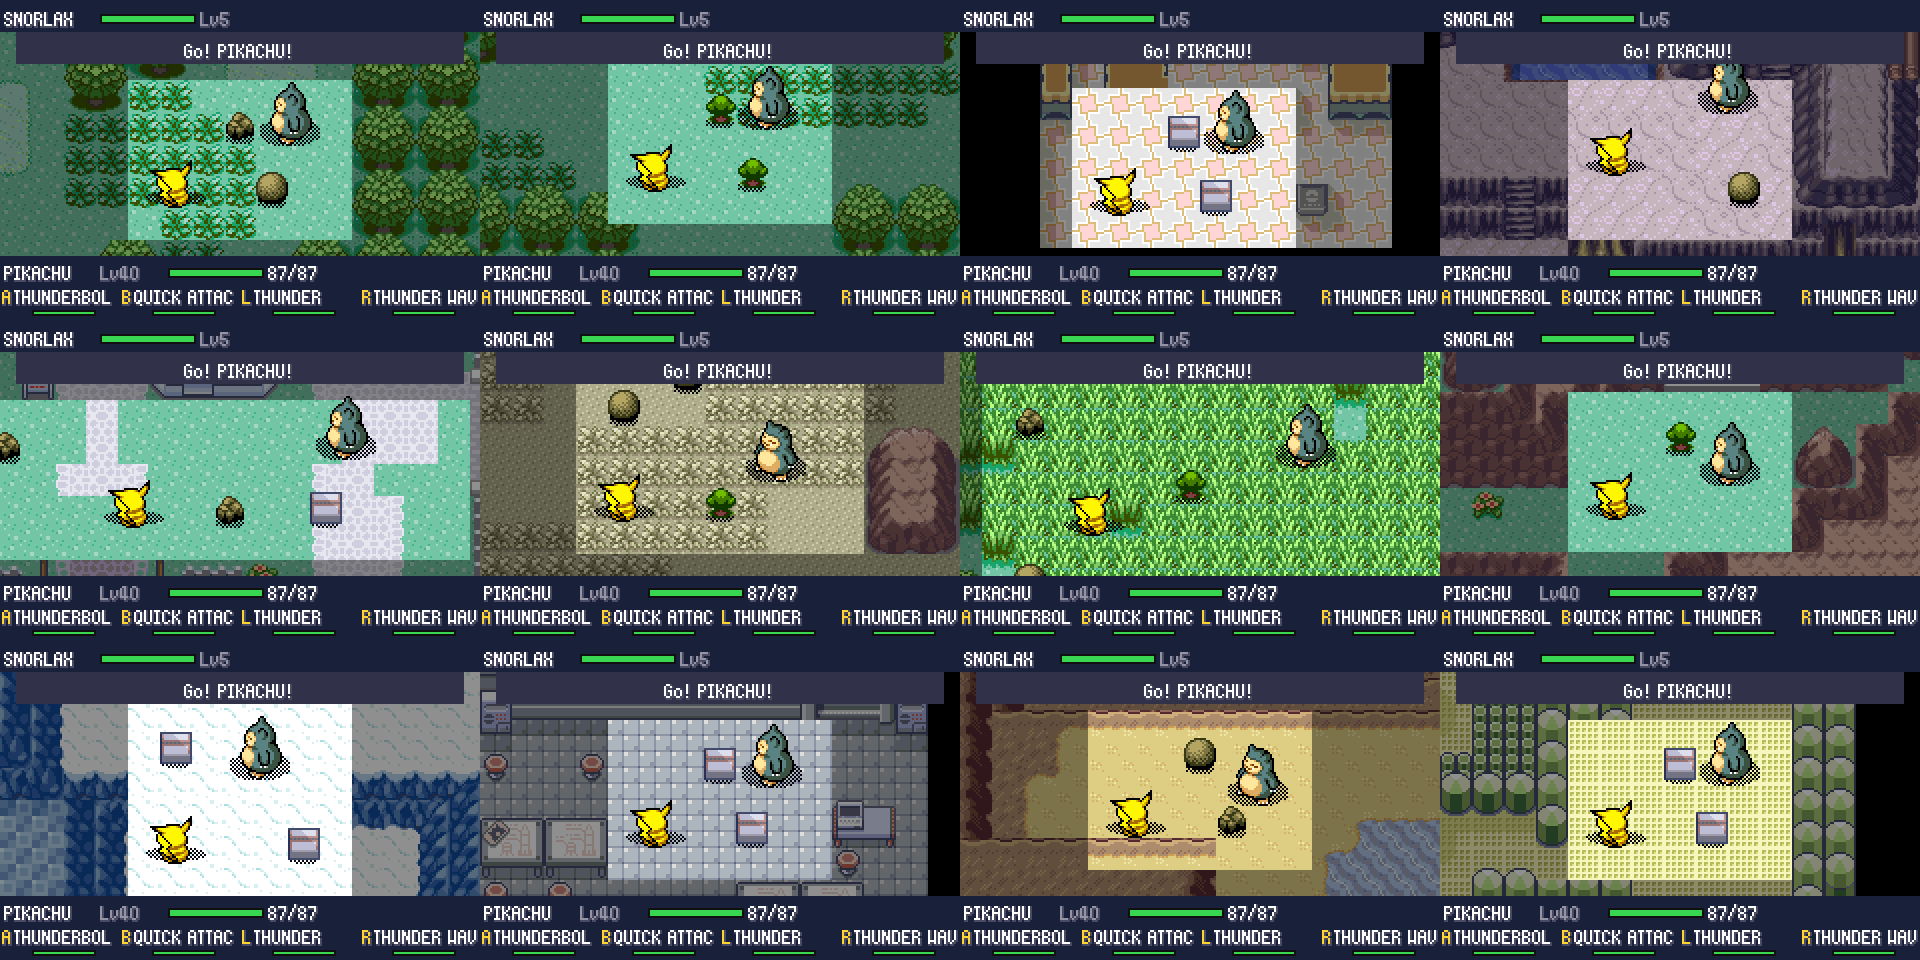
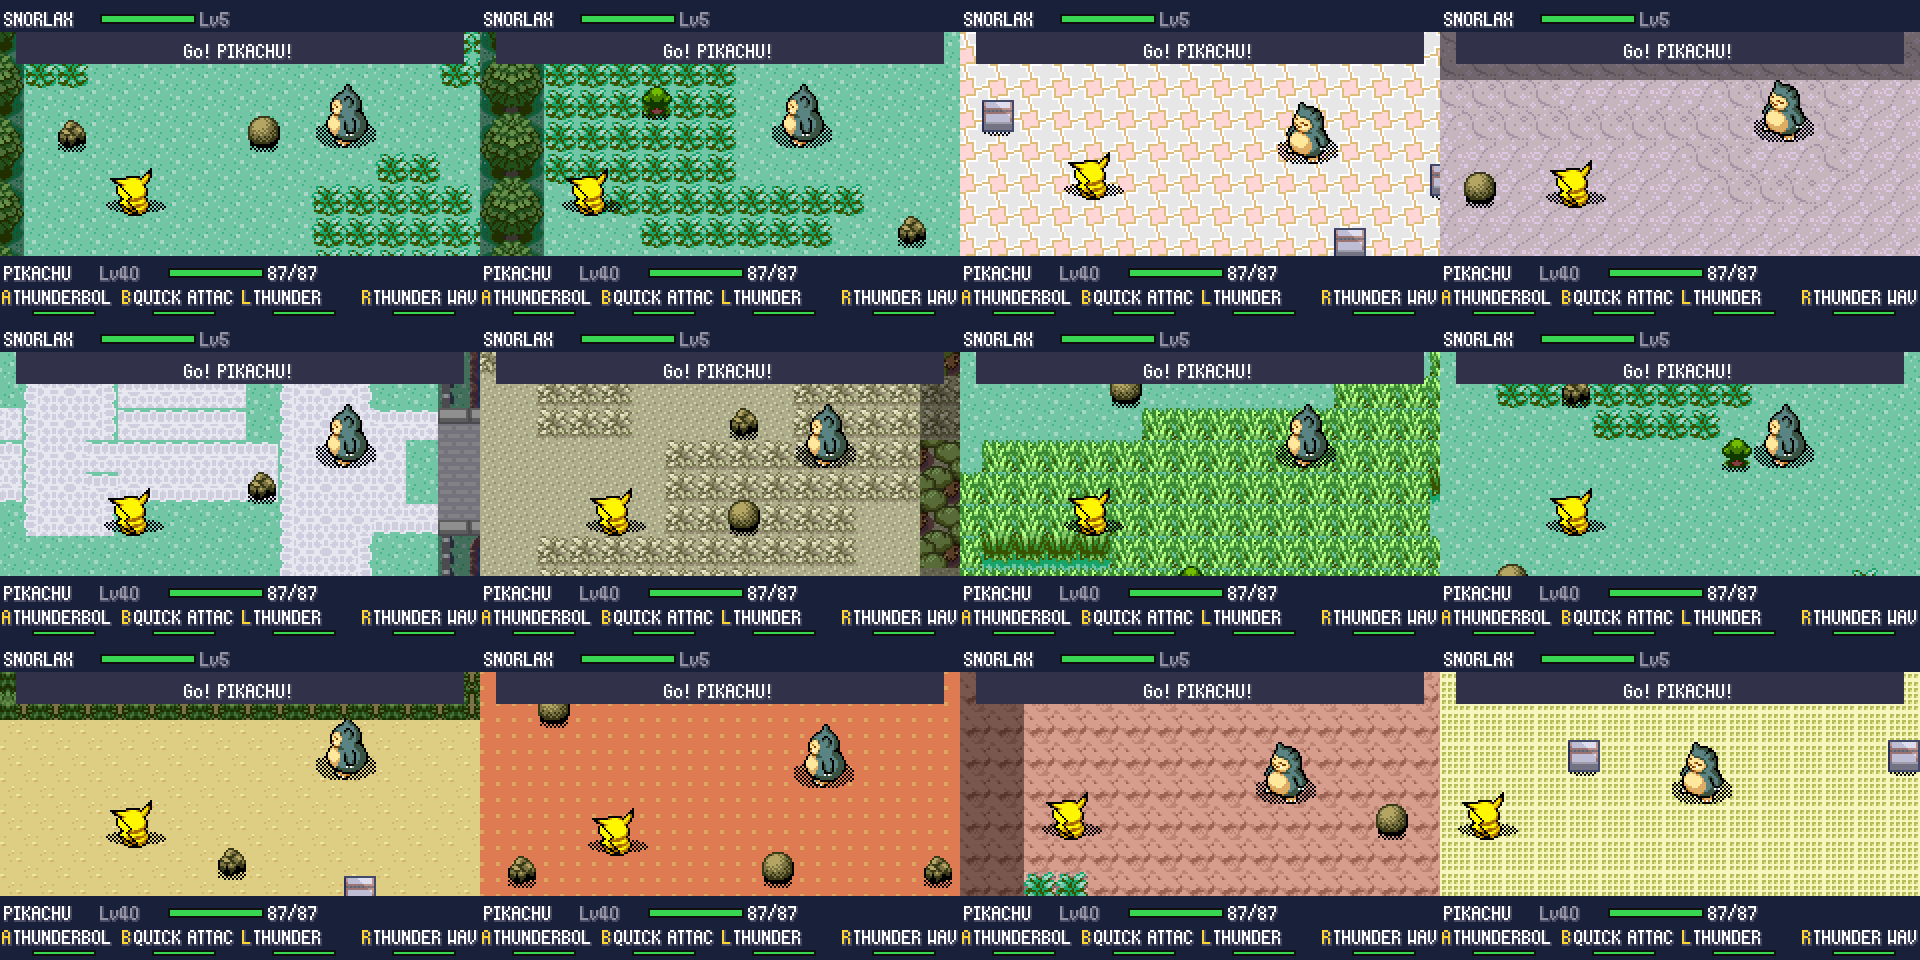
Arena: fixed 18x10 battle field, framed by the map's border blocks
The field is always the same size. It goes where the least has to be
cleared, aligned to the border block grid; everything inside becomes the
ground around it, and a ring of border blocks (trees, rock) closes it off
where something cut by the edge would show.

Claude-Session: https://claude.ai/code/session_013R2tMbz1MA74Zkb74ruqsw

diff --git a/src/rt_arena.c b/src/rt_arena.c
@@ -386,6 +386,19 @@ static bool8 IsLedgeMeta(u16 m)
         || MetatileBehavior_IsJumpNorth(b) || MetatileBehavior_IsJumpSouth(b);
 }
 
+// the black void around rooms: a metatile drawn with a single tile everywhere
+static bool8 IsBlankMetatile(u16 m)
+{
+    const u16 *t = GetMetatileTiles(m);
+    s32 k;
+    if (t == NULL)
+        return TRUE;
+    for (k = 1; k < 8; k++)
+        if ((t[k] & 0x3FF) != (t[0] & 0x3FF))
+            return FALSE;
+    return TRUE;
+}
+
 // single-level maps (most rooms and gyms) mix elevation 0 ("any level") floor with the player's level
 static bool8 sZeroElevOk;
 
@@ -754,47 +767,54 @@ void RtArena_Build(void)
         sZeroElevOk = (second * 12 < top) && gMapHeader.mapType != MAP_TYPE_TOWN && gMapHeader.mapType != MAP_TYPE_CITY
                    && gMapHeader.mapType != MAP_TYPE_ROUTE && gMapHeader.mapType != MAP_TYPE_OCEAN_ROUTE;
     }
-    // 3b. best untouched field: the biggest rectangle made only of clean ground. When there is one,
-    // the arena is the real map as it is (nothing painted), just with the scenery around dimmed.
+    // 3b. the battle field: always FIELD_W x FIELD_H metatiles. It goes where the least has to be cleared
+    // (everything that is not plain ground of the player's level counts, the void outside a room the most),
+    // close to the player. It is aligned like the map's border blocks so the frame of border blocks
+    // (trees, rock) drawn around it later lines up.
     {
-        u8 *hgt = gRt->scr.hgt;
         u8 pe = MapGridGetElevationAt(px, py);
-        s32 bestA = 0;
-        cleanW = 0;
-        memset(hgt, 0, GRID_W);
-        for (y = 1; y < GRID_H - 1; y++)
-        {
-            for (x = 1; x < GRID_W - 1; x++)
+        bool8 noConn = (gMapHeader.connections == NULL || gMapHeader.connections->count == 0);
+        const struct MapLayout *layout = gMapHeader.mapLayout;
+        s32 bestC = 0x7FFFFFFF;
+        for (y = 0; y <= GRID_H; y++)
+            for (x = 0; x <= GRID_W; x++)
             {
-                hgt[x] = CellClean(gx0 + x, gy0 + y, water, pe) ? (hgt[x] < 14 ? hgt[x] + 1 : 14) : 0;
-            }
-            for (x = 1; x < GRID_W - 1; x++)
-            {
-                s32 x2, mh = 14;
-                if (hgt[x] < 5)
-                    continue;
-                for (x2 = x; x2 < GRID_W - 1 && x2 - x < 30; x2++)
+                if (x == 0 || y == 0)
+                    sum[y * (GRID_W + 1) + x] = 0;
+                else
                 {
-                    s32 w = x2 - x + 1, a, dcx, dcy;
-                    if (hgt[x2] < mh)
-                        mh = hgt[x2];
-                    if (mh < 5)
-                        break;
-                    if (w < 7)
-                        continue;
-                    dcx = gx0 + x + w / 2 - px;
-                    dcy = gy0 + y - mh / 2 - py;
-                    if (dcx < 0) dcx = -dcx;
-                    if (dcy < 0) dcy = -dcy;
-                    a = (w > 22 ? 22 : w) * mh * 4 - (dcx + dcy) * 3;
-                    if (a > bestA)
-                    {
-                        bestA = a;
-                        cleanX = x;
-                        cleanY = y - mh + 1;
-                        cleanW = w;
-                        cleanH = mh;
-                    }
+                    s32 cx = gx0 + x - 1, cy = gy0 + y - 1, c = 0;
+                    if (noConn && (cx < MAP_OFFSET || cy < MAP_OFFSET || cx >= MAP_OFFSET + layout->width || cy >= MAP_OFFSET + layout->height))
+                        c = 6;
+                    else if (!CellClean(cx, cy, water, pe))
+                        c = 2;
+                    sum[y * (GRID_W + 1) + x] = c + sum[(y - 1) * (GRID_W + 1) + x] + sum[y * (GRID_W + 1) + x - 1]
+                                                - sum[(y - 1) * (GRID_W + 1) + x - 1];
+                }
+            }
+        for (y = (ARENA_MH - FIELD_H) / 2; y + FIELD_H + (ARENA_MH - FIELD_H) / 2 <= GRID_H; y++)
+        {
+            if (((gy0 + y) & 1) == 0)
+                continue;
+            for (x = (ARENA_MW - FIELD_W) / 2; x + FIELD_W + (ARENA_MW - FIELD_W) / 2 <= GRID_W; x++)
+            {
+                s32 c, dcx, dcy;
+                if (((gx0 + x) & 1) == 0)
+                    continue;
+                c = sum[(y + FIELD_H) * (GRID_W + 1) + x + FIELD_W] - sum[y * (GRID_W + 1) + x + FIELD_W]
+                  - sum[(y + FIELD_H) * (GRID_W + 1) + x] + sum[y * (GRID_W + 1) + x];
+                dcx = gx0 + x + FIELD_W / 2 - px;
+                dcy = gy0 + y + FIELD_H / 2 - py;
+                if (dcx < 0) dcx = -dcx;
+                if (dcy < 0) dcy = -dcy;
+                c = c * 4 + dcx + dcy;
+                if (c < bestC)
+                {
+                    bestC = c;
+                    cleanX = x;
+                    cleanY = y;
+                    cleanW = FIELD_W;
+                    cleanH = FIELD_H;
                 }
             }
         }
@@ -841,7 +861,7 @@ void RtArena_Build(void)
             bestComp = n;
         }
     }
-    if (bestComp < 20)
+    if (bestComp < 20 && !cleanW)
         goto fallback;
 
     // 5. build the arena from the chosen window
@@ -1176,22 +1196,13 @@ void RtArena_Build(void)
                                                   - cost[(y - 1) * (ARENA_MW + 1) + x - 1];
                 }
             }
-        // small rooms get a small field rather than one spilling over walls and void
-        // (a field needs some room to move around: in tight places it takes the least cluttered spot)
-        for (h = water ? 4 : 5; h <= ARENA_MH - 2; h++)
-            for (w = water ? 5 : 7; w <= ARENA_MW - 2; w++)
-                for (y = 1; y + h <= ARENA_MH - 1; y++)
-                    for (x = 1; x + w <= ARENA_MW - 1; x++)
-                    {
-                        s32 c = cost[(y + h) * (ARENA_MW + 1) + x + w] - cost[y * (ARENA_MW + 1) + x + w]
-                              - cost[(y + h) * (ARENA_MW + 1) + x] + cost[y * (ARENA_MW + 1) + x];
-                        s32 sc = (w > 22 ? 22 : w) * (h > 12 ? 12 : h) * 8 - c * 3;
-                        if (sc > bestS)
-                        {
-                            bestS = sc;
-                            bx0 = x; by0 = y; bw = w; bh = h;
-                        }
-                    }
+        if (cleanW)
+        {
+            bx0 = cleanX - bestOx;
+            by0 = cleanY - bestOy;
+            bw = cleanW;
+            bh = cleanH;
+        }
         for (y = 0; y < ARENA_MH; y++)
         {
             for (x = 0; x < ARENA_MW; x++)
@@ -1242,6 +1253,41 @@ void RtArena_Build(void)
                         gRt->arenaMeta[y][x] = objFill[near];
                 }
         }
+        // a frame of the map's border blocks (the trees or rock that close off the map) around the field,
+        // wherever something cut by the field's edge would show: the field looks like a clearing instead of
+        // a hole cut through buildings and cliffs
+        {
+            const struct MapLayout *layout = gMapHeader.mapLayout;
+            u8 (*erased)[ARENA_MW] = gRt->scr.erased;
+            if (!water && !indoorField && layout->border != NULL
+             && !MetatileBehavior_IsSurfableWaterOrUnderwater(BehaviorOf(layout->border[0] & MAPGRID_METATILE_ID_MASK))
+             && !IsBlankMetatile(layout->border[0] & MAPGRID_METATILE_ID_MASK))
+            {
+                s32 bxs, bys;
+                for (bys = by0 - 2; bys < by0 + bh + 2; bys += 2)
+                    for (bxs = bx0 - 2; bxs < bx0 + bw + 2; bxs += 2)
+                    {
+                        s32 j, k;
+                        bool8 dirty = FALSE;
+                        if (bxs >= bx0 && bxs < bx0 + bw && bys >= by0 && bys < by0 + bh)
+                            continue; // inside the field
+                        if (bxs < 0 || bys < 0 || bxs + 1 >= ARENA_MW || bys + 1 >= ARENA_MH)
+                            continue;
+                        for (j = 0; j < 2; j++)
+                            for (k = 0; k < 2; k++)
+                                if (clean[bys + j][bxs + k] != 0 && !erased[bys + j][bxs + k])
+                                    dirty = TRUE;
+                        if (!dirty)
+                            continue;
+                        for (j = 0; j < 2; j++)
+                            for (k = 0; k < 2; k++)
+                            {
+                                s32 ax = gx0 + bestOx + bxs + k, ay = gy0 + bestOy + bys + j;
+                                gRt->arenaMeta[bys + j][bxs + k] = layout->border[((ax + 1) & 1) + (((ay + 1) & 1) << 1)] & MAPGRID_METATILE_ID_MASK;
+                            }
+                    }
+            }
+        }
         gRt->playX0 = bx0 * 16;
         gRt->playY0 = by0 * 16;
         gRt->playX1 = (bx0 + bw) * 16;
@@ -1261,6 +1307,11 @@ void RtArena_Build(void)
         gRt->viewY0 = my0 * 16;
         gRt->viewX1 = mx1 * 16;
         gRt->viewY1 = my1 * 16;
+        // the whole field stays reachable by the camera even where it goes past a small room
+        if (gRt->viewX0 > gRt->playX0) gRt->viewX0 = gRt->playX0;
+        if (gRt->viewY0 > gRt->playY0) gRt->viewY0 = gRt->playY0;
+        if (gRt->viewX1 < gRt->playX1) gRt->viewX1 = gRt->playX1;
+        if (gRt->viewY1 < gRt->playY1) gRt->viewY1 = gRt->playY1;
     }
     // the outermost ring is always closed for walking (the view ends there)
     for (x = 0; x < ARENA_MW; x++)

diff --git a/include/rt_internal.h b/include/rt_internal.h
@@ -23,6 +23,8 @@
 // ---------------------------------------------------------------------------
 #define ARENA_MW 32            // metatiles
 #define ARENA_MH 16
+#define FIELD_W 18             // battle field, metatiles (always this size)
+#define FIELD_H 10
 #define ARENA_W (ARENA_MW * 16) // pixels
 #define ARENA_H (ARENA_MH * 16)
 #define ARENA_BORDER 1         // metatiles of border on each side

diff --git a/README.md b/README.md
@@ -29,7 +29,7 @@ Todas as batalhas viram ação: selvagens, treinadores, líderes, batalhas dupla
 ## Recursos
 
 - **Combate em tempo real** em todas as batalhas suportadas: selvagens, treinadores, duplas (2×2, com aliado controlado por IA), batalhas com parceiro (Steven), Safari Zone, Battle Frontier e Battle Pyramid.
-- **Arena = o lugar onde a batalha começou.** A arena é recortada do mapa real ao redor do jogador (árvores, prédios, cavernas, água, animações de tileset). Dentro dela, um **campo retangular limpo** é a área de luta: ele é posicionado onde o chão já é livre e só contém terreno sem colisão; objetos pequenos que caem dentro dele (pedras, placas, árvores soltas, ledges, degraus) são apagados com o chão em volta, e o cenário ao redor aparece escurecido — o que está claro é onde dá para andar, o que está escuro não.
+- **Arena = o lugar onde a batalha começou.** A arena é recortada do mapa real ao redor do jogador (árvores, prédios, cavernas, água, animações de tileset). Dentro dela, um **campo de luta de tamanho fixo (18×10 metatiles)** é a área de luta: ele vai para onde há menos obstáculos, e tudo dentro dele vira chão sem colisão (pedras, placas, árvores, paredes, ledges e degraus são pintados com o chão em volta). Uma moldura com as árvores/rochas de borda do mapa fecha o campo, e o cenário ao redor aparece escurecido — o que está claro é onde dá para andar, o que está escuro não.
 - **Objetos na arena:** pedras de Rock Smash, árvores de Cut, rochas de Strength e caixas de mudança — os próprios sprites do overworld do Emerald, escolhidos conforme o lugar (caixas em lugares fechados, pedras em cavernas, árvores e pedras em rotas). Eles bloqueiam passagem e tiros, quebram quando atingidos, e **golpes como Psychic, Confusion, Extrasensory, Seismic Toss, Strength, Vital Throw, Rock Throw e Ancient Power levantam um objeto próximo e o arremessam** no adversário.
 - **Todos os 386 Pokémon obtíveis:** Pokémon de Kanto e Johto (e os de Hoenn que só vinham de troca, evento ou escolha única) foram espalhados pelas rotas, cavernas e águas do Emerald, em lugares coerentes com o tipo e o nível ([lista](docs/POKEMON_LOCAIS.md)). Evoluções por troca viraram por nível/item, e os itens de evolução são vendidos em Lilycove.
 - **Lendários:** os pássaros de Kanto, os cães de Johto, Ho-Oh, Latias e Latios andam livres desde o início do jogo e podem aparecer em qualquer encontro; Lugia só no mar. Depois do Hall da Fama aparecem Celebi, Jirachi e Mewtwo em lugares temáticos, e os tickets de evento (Deoxys, Mew, Lugia/Ho-Oh, Latias/Latios) são entregues automaticamente.
@@ -72,11 +72,11 @@ Todas as batalhas viram ação: selvagens, treinadores, líderes, batalhas dupla
 
 ![](docs/screenshots/moves_sheet.png)
 
-**Arenas geradas a partir do mapa** (o campo claro é a área de luta; o cenário escurecido em volta não é caminhável) — Route 101, Petalburg Woods, ginásio de Rustboro, Meteor Falls, Slateport, Route 113 (cinzas), Route 119, Mt. Pyre (exterior), ginásio de Sootopolis, Centro Espacial de Mossdeep, Shoal Cave e ginásio de Fortree:
+**Arenas geradas a partir do mapa** (o campo claro é a área de luta; o cenário escurecido em volta não é caminhável) — Route 101, Petalburg Woods, ginásio de Rustboro, Meteor Falls, Slateport, Route 113 (cinzas), Route 119, Mt. Pyre (exterior), Dewford, Abandoned Ship, Jagged Pass e ginásio de Fortree:
 
 ![](docs/screenshots/arenas_ingame.png)
 
-Arena inteira (512×256 px), com o campo de luta em destaque, gerada para Route 101, Meteor Falls, Slateport, Route 113, Shoal Cave e ginásio de Fortree:
+Arena inteira (512×256 px), com o campo de luta em destaque e a moldura de borda, gerada para Route 101, Dewford, Petalburg, Route 113, Meteor Falls e Mt. Pyre:
 
 ![](docs/screenshots/arenas_full_maps.png)
 
@@ -171,7 +171,8 @@ Mudanças em arquivos do jogo original (pequenas): `battle_main.c` (desvio para 
 1. Uma grade de 80×48 metatiles ao redor do jogador é classificada em *caminhável*, *bloqueia projéteis* ou *aberta* (caminhável com os 8 vizinhos caminháveis). Se o jogador está surfando, a água vira o chão.
 2. Com somas de prefixo, todas as janelas de 32×16 metatiles (512×256 px, o tamanho de um mapa de BG) são pontuadas por área aberta e proximidade do jogador; as melhores candidatas passam por uma busca em largura que mede a maior região conectada.
 3. A janela vencedora é copiada como está (layers *normal/covered/split* idênticas às do overworld, com animações de tileset).
-4. **Campo de luta:** cada célula da janela é classificada como *chão limpo* (grama, alta ou não, trilha, areia, piso — no mesmo nível do jogador e dentro dos limites do mapa), *chão a pintar* (chão sob copas de árvores/telhados, ledges, peças raras como degraus, crateras ou uma tábua solta; em interiores, tapetes e banquinhos) ou *obstáculo* (qualquer coisa com colisão, água, escadas entre níveis, vazio fora do mapa). O que não é chão limpo é agrupado em objetos (8-conectados): objetos pequenos (até 9 células) são apagados inteiros, os grandes (penhascos, prédios, florestas) ficam fora do campo. Com somas de prefixo, o retângulo escolhido é o que maximiza a área menos o custo do que teria de ser pintado (obstáculos grandes são praticamente proibidos); em salas pequenas o campo fica do tamanho da sala em vez de invadir paredes. Cada objeto apagado é substituído pelo chão que mais aparece em volta dele (votação de maioria), então trilhas continuam trilhas e grama continua grama — sem emendas.
+4. **Campo de luta — sempre 18×10 metatiles (288×160 px):** o retângulo é posicionado (alinhado aos blocos de borda do mapa) onde menos coisa precisa ser limpa: cada célula que não é chão limpo do nível do jogador custa, e o vazio fora de uma sala custa mais. Dentro dele tudo vira chão: o que não é chão limpo é agrupado em objetos (8-conectados) e cada objeto é pintado com o chão que mais aparece em volta dele (votação de maioria), então trilhas continuam trilhas e grama continua grama; objetos pequenos que encostam no campo são apagados inteiros; degraus, crateras e peças raras também somem; em interiores o piso fica uniforme.
+   - **Moldura:** em volta do campo, onde algum objeto cortado pela borda apareceria (meio prédio, meio penhasco), é desenhado um anel de 2 metatiles com os *blocos de borda* do próprio mapa — as árvores das rotas e cidades, a rocha das cavernas. O campo vira uma clareira em vez de um buraco recortado no cenário. Em mapas cuja borda é água ou vazio (interiores) o anel não é desenhado.
 5. Fora do campo fica o cenário real, **escurecido** por hardware: a janela 0 do GBA cobre o campo (atualizada a cada quadro com o scroll da câmera) e o efeito de escurecimento (`BLDCNT`/`BLDY`) só vale fora dela. Assim fica óbvio onde dá e onde não dá para andar.
 6. Os pontos de spawn ficam dentro do campo, na diagonal (jogador embaixo à esquerda, inimigo em cima à direita), porque a tela é larga e baixa; a câmera enquadra os dois.
 
@@ -295,7 +296,7 @@ Usado para testes e prints. Requer o mGBA compilado como biblioteca estática (`
 - Com Repel ativo, os lendários errantes também não aparecem.
 - Em salas internas mais estreitas que a tela aparecem faixas pretas nas laterais (como no overworld).
 - Objetos do mapa que não são metatiles (NPCs, árvores cortáveis, pedras de Rock Smash) não aparecem na arena.
-- O campo de luta é sempre retangular; em mapas muito estreitos ele pode ser pequeno.
+- O campo de luta é sempre um retângulo de 18×10; em salas menores que isso ele passa por cima das paredes e do vazio em volta da sala.
 - Balanceamento (ritmo de dano, cooldowns) foi ajustado por testes, mas é subjetivo; o multiplicador global fica em `RT_DMG_SCALE` (`src/rt_moves.c`).
 
 ## Créditos e licenças
